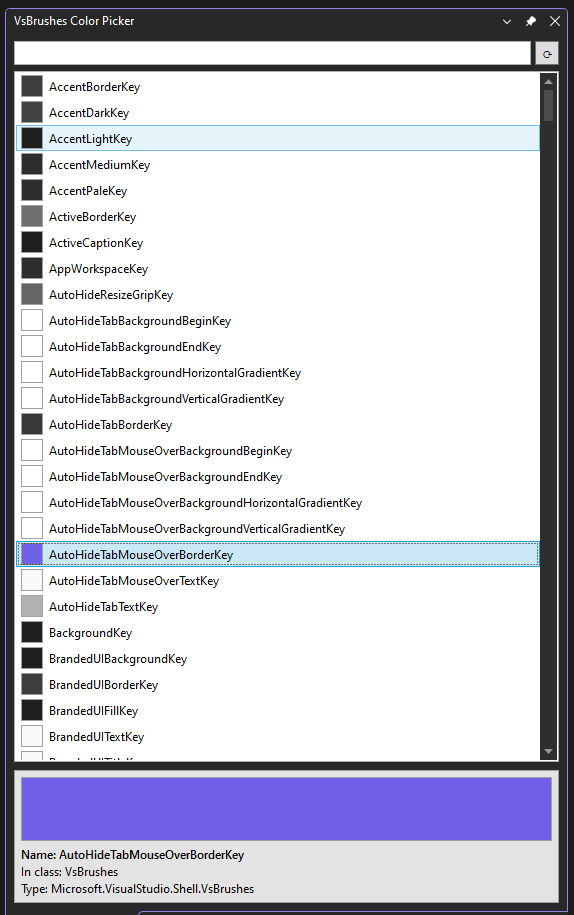
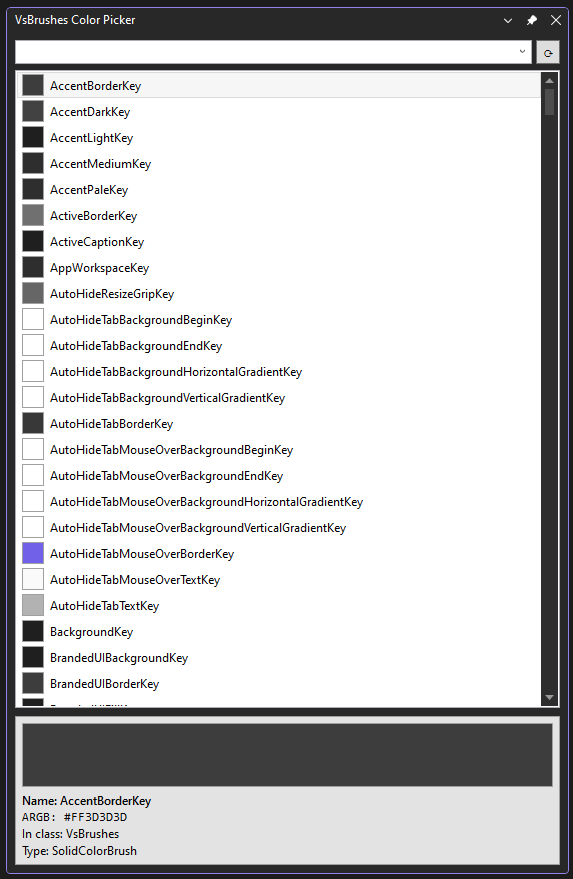
Increased version and new screenshots

Changed region(s): [[0.0, 0.0, 1.0, 1.0]]

diff --git a/ToolWindow/source.extension.cs b/ToolWindow/source.extension.cs
@@ -12,7 +12,7 @@ namespace VsBrushesColorPicker
         public const string Name = "VsBrushes Color Picker";
         public const string Description = @"Browse and explore all VsBrushes colors in Visual Studio. Features include live preview with color swatches, search and filter, auto-refresh on theme changes, and detailed color information. Perfect for Visual Studio extension developers who need to find the right theme colors for their UI.";
         public const string Language = "en-US";
-        public const string Version = "1.0";
+        public const string Version = "1.1";
         public const string Author = "Stephane Etienne";
         public const string Tags = "";
         public const bool IsPreview = false;
